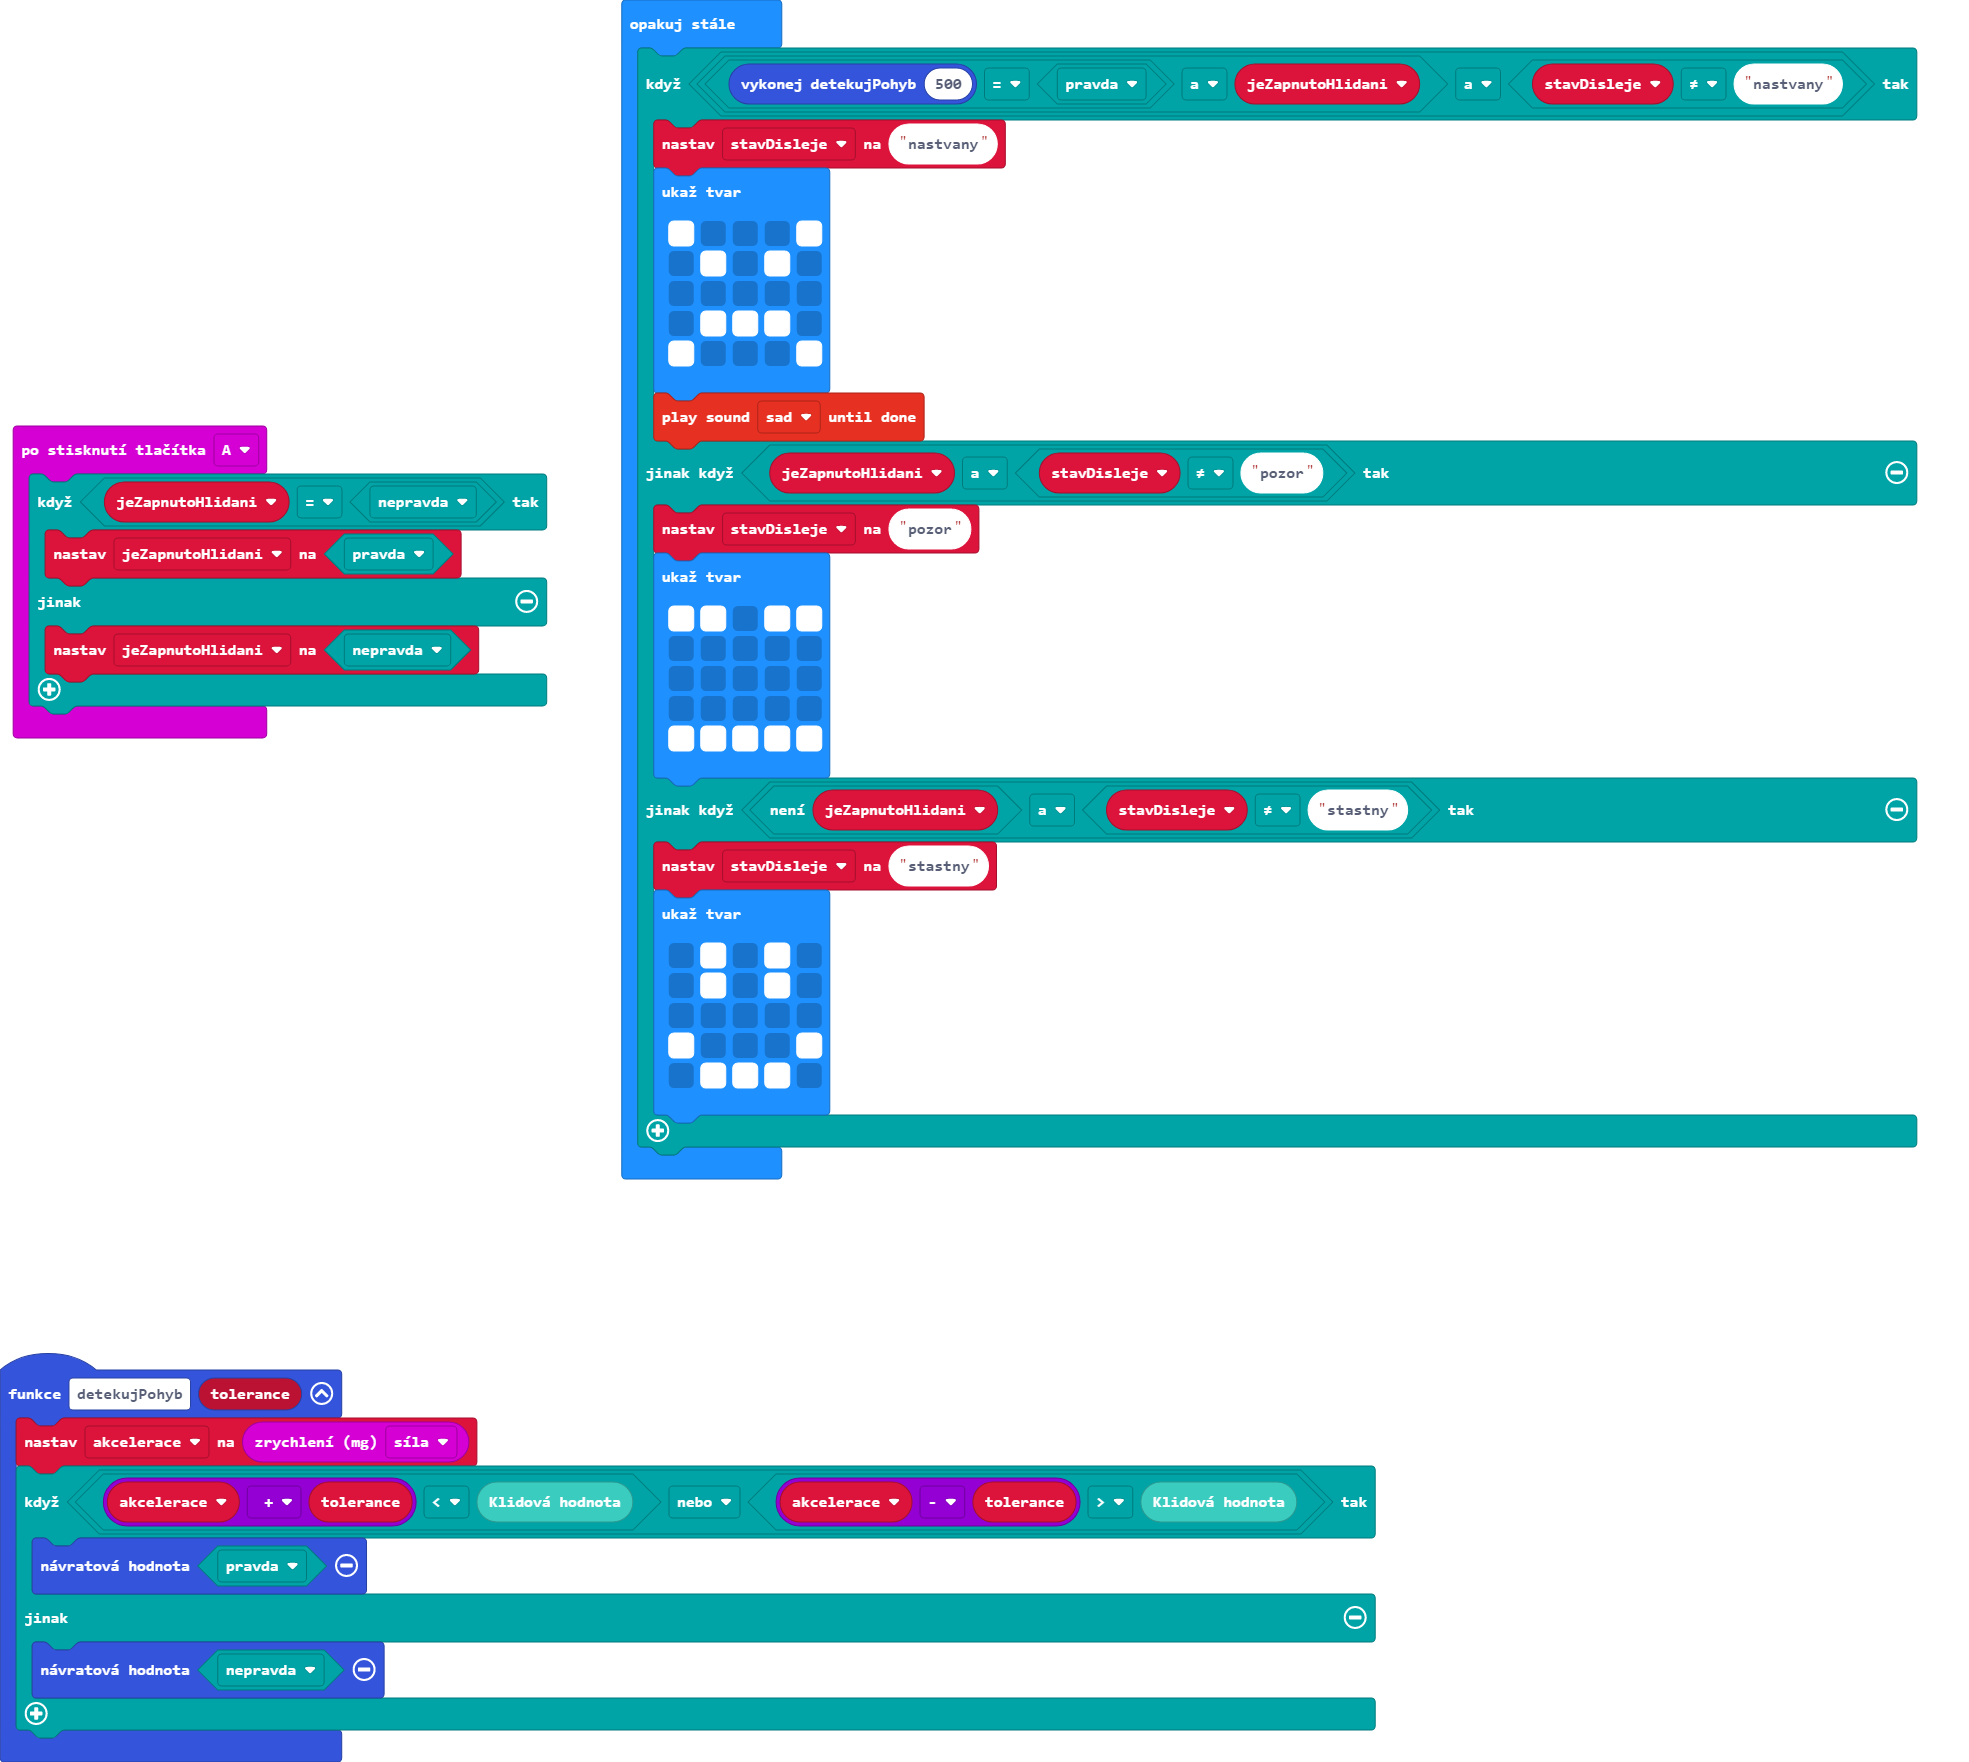
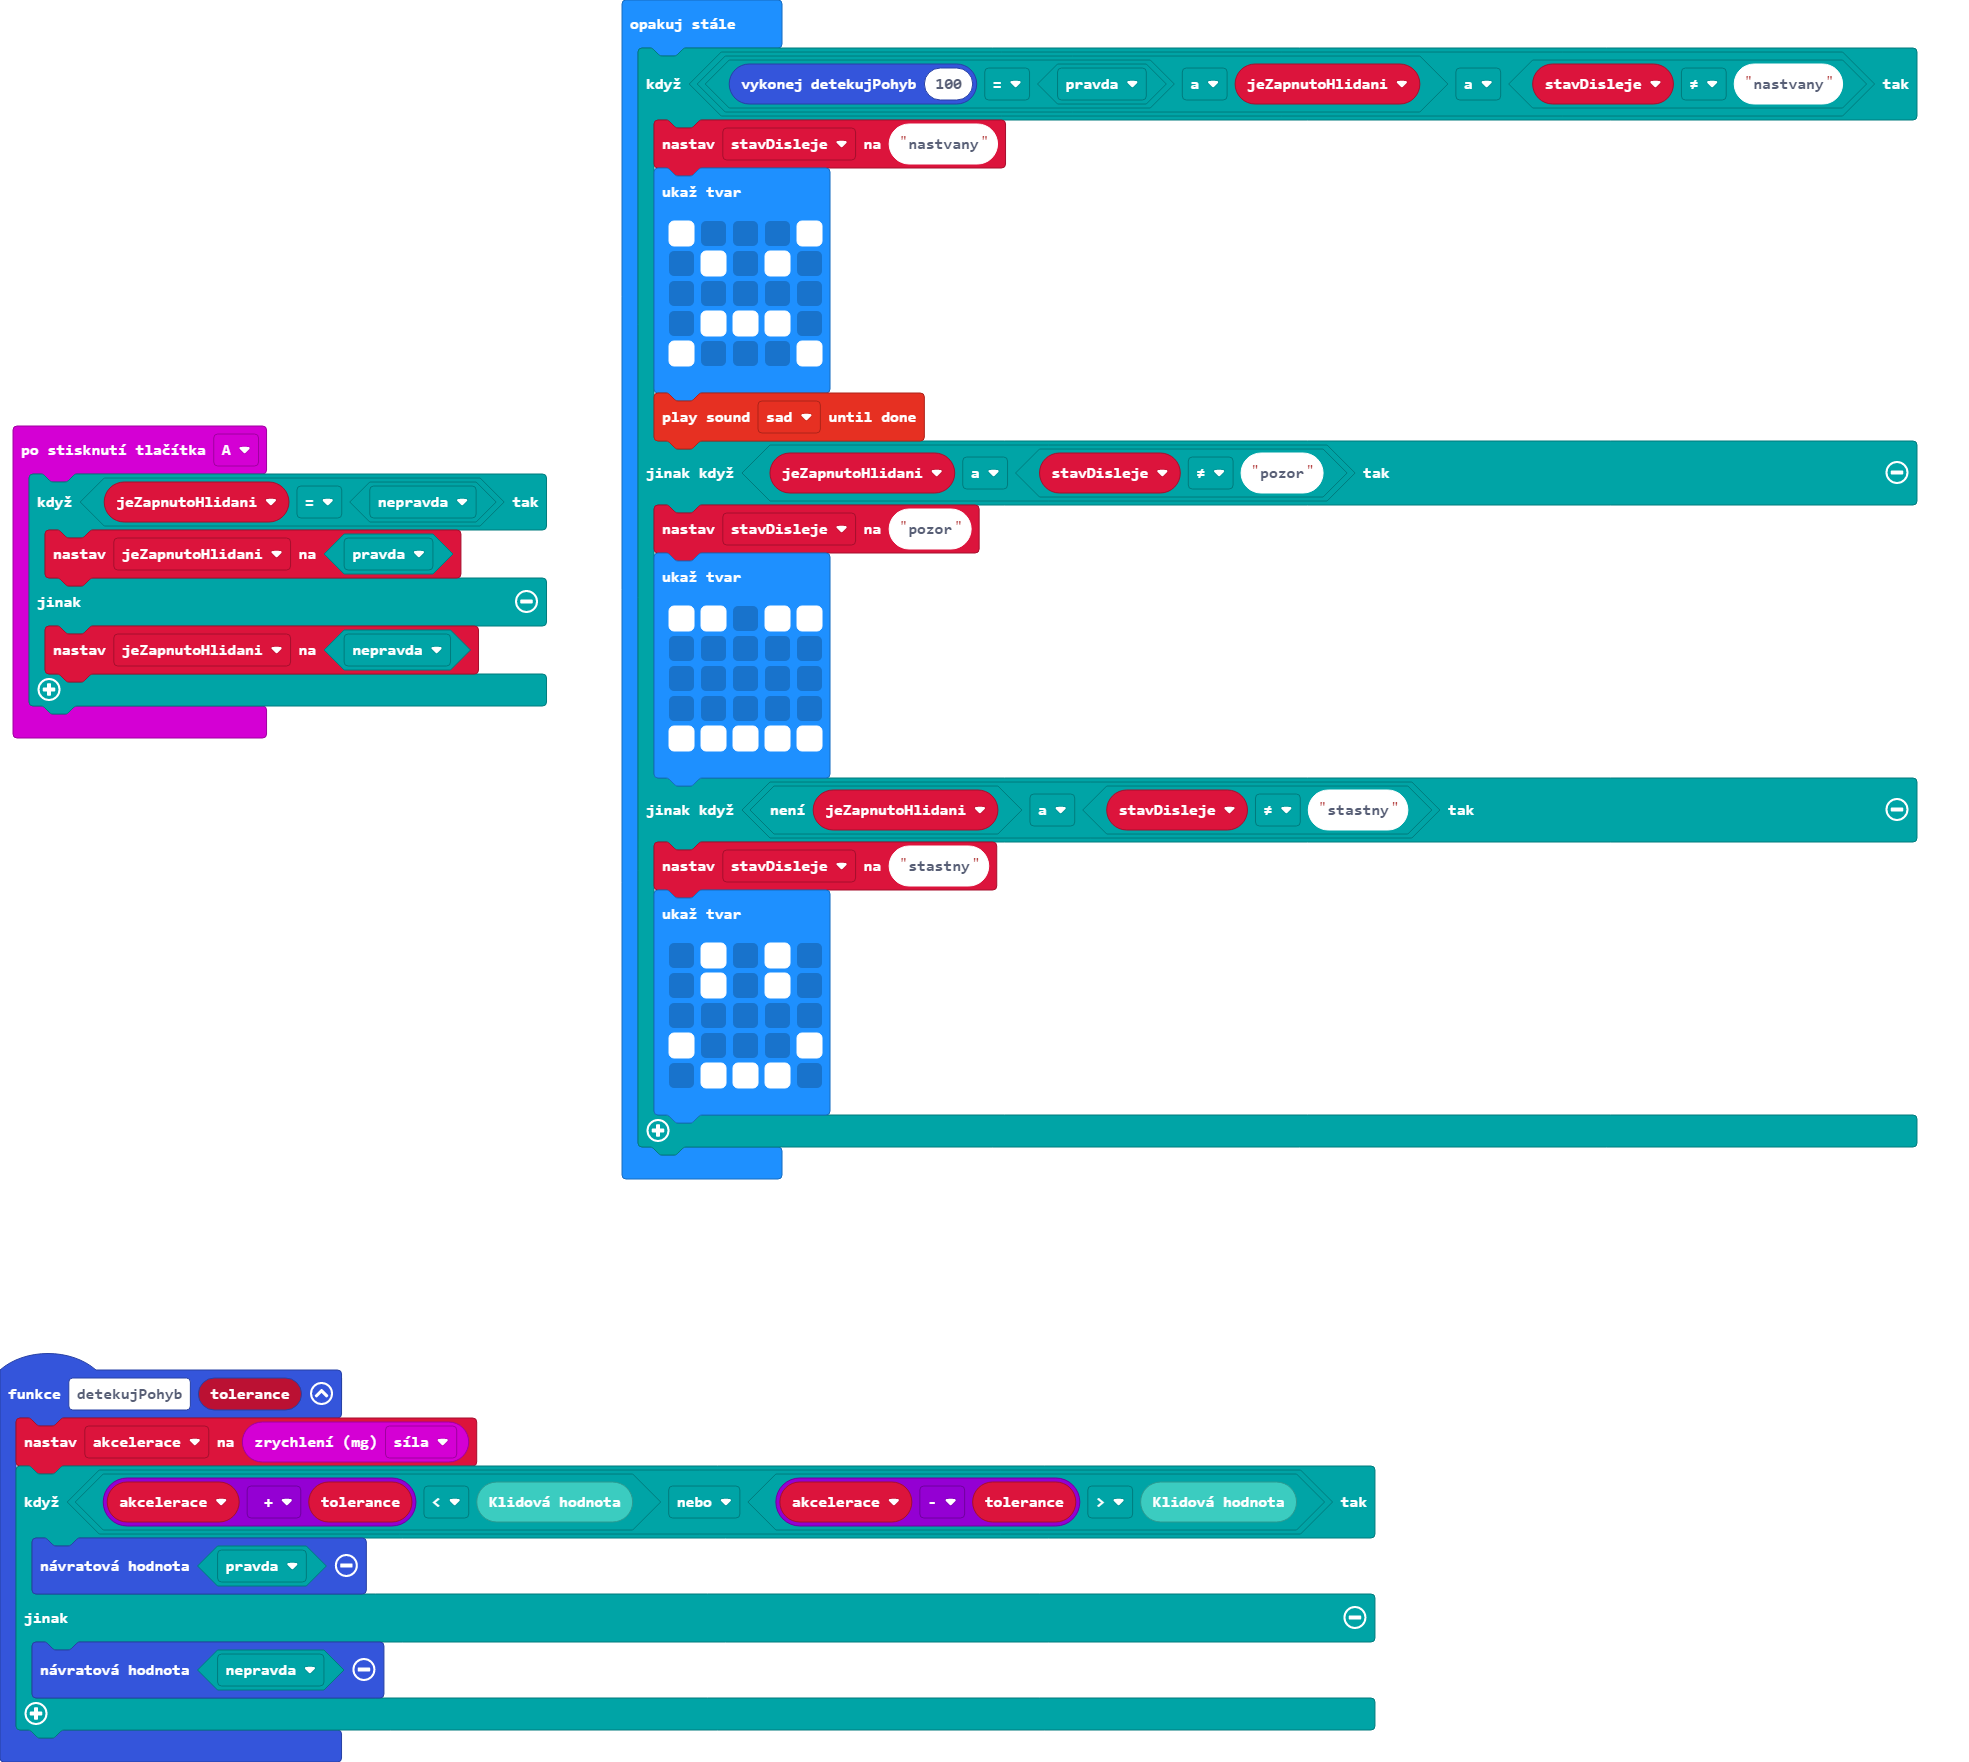
Aktualizovat main.blocks, main.ts, mikado.ts

diff --git a/mikado.ts b/mikado.ts
@@ -9,28 +9,6 @@
  */
 //% weight=100 color=#3bccc0 icon="\uf11b"
 namespace Mikado {
-    let isGuarding = false
-
-    /**
-    * Zapne hlídání
-    */
-    //% block="Zapni hlídání"
-
-    export function zapnoutHlidani(): void {
-        basic.showIcon(IconNames.Asleep)
-        isGuarding = true
-    }
-
-    /**
-    * Vypne hlídání
-    */
-    //% block="Vypni hlídání"
-
-    export function vypnoutHlidani(): void {
-        basic.showIcon(IconNames.Happy)
-        isGuarding = false
-
-    }
 
     /**
     * Vrátí klidovou hodnotu senzoru
@@ -39,21 +17,6 @@ namespace Mikado {
 
     export function klidovaHodnota(): number {
         return 1023
-    }
-
-    /**
-    * Vzbudí hlídače
-    */
-    //% block="Vzbuď hlídače"
-
-    export function vzbuditHlidace(): void {
-        basic.showIcon(IconNames.Angry)
-        soundExpression.sad.playUntilDone()
-        if (!(isGuarding)) {
-            basic.showIcon(IconNames.Happy)
-        } else {
-            basic.showIcon(IconNames.Asleep)
-        }
     }
 
 }

diff --git a/main.ts b/main.ts
@@ -17,7 +17,7 @@ function detekujPohyb (tolerance: number) {
     }
 }
 basic.forever(function () {
-    if (detekujPohyb(500) == true && jeZapnutoHlidani && stavDisleje != "nastvany") {
+    if (detekujPohyb(100) == true && jeZapnutoHlidani && stavDisleje != "nastvany") {
         stavDisleje = "nastvany"
         basic.showLeds(`
             # . . . #
